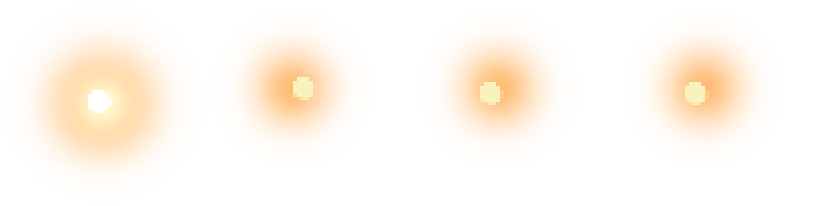
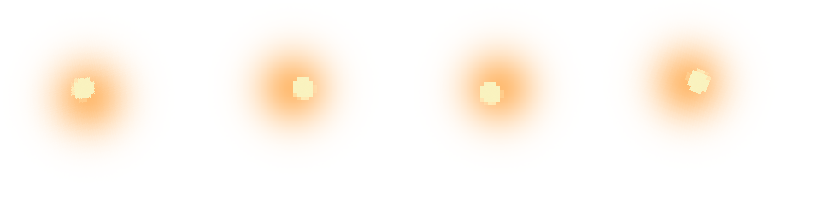
juja hoha

Changed region(s): [[0.0608, 0.233, 0.2129, 0.8155], [0.7603, 0.233, 0.9124, 0.6117]]

diff --git a/Hollenhaus/Hollenhaus proyect VS/src/game/GameStateMachine.h b/Hollenhaus/Hollenhaus proyect VS/src/game/GameStateMachine.h
@@ -43,6 +43,7 @@ namespace GameStates
 		OPTIONSMENU,
 		TRANSITIONTEXT,
 		CINEMATICINTRO,
+		CINEMATICOUTRO,
 		PAUSEMENU,
 		MAZEMENU,
 		CLUESMENU,
@@ -106,11 +107,12 @@ class GameStateMachine : public Singleton<GameStateMachine>
 	GameState* multiplayerModeState;
 	GameState* optionsMainMenuState;
 	GameState* cinematicIntroState;
+	GameState* cinematicOutroState;
 	GameState* transitionTextMenuState;
 	GameState* pauseMenuState;
 	GameState* checkMazeMenuState;
 	GameState* checkCluesMenuState;
-	 
+
 	// Estados auxiliares
 	GameState* movementState;
 
@@ -139,7 +141,7 @@ public:
 		return mngr_;
 	}
 
-	CaseManager* caseMngr() 
+	CaseManager* caseMngr()
 	{
 		return case_;
 	}
@@ -229,6 +231,9 @@ public:
 		case GameStates::CINEMATICINTRO:
 			newState = cinematicIntroState;
 			break;
+		case GameStates::CINEMATICOUTRO:
+			newState = cinematicOutroState;
+			break;
 		case GameStates::PAUSEMENU:
 			newState = pauseMenuState;
 			break;
@@ -241,7 +246,7 @@ public:
 		case GameStates::ENDGAME:
 			newState = endGameState;
 			break;
-		case GameStates::TUTORIAL_DECKBUILDING: 
+		case GameStates::TUTORIAL_DECKBUILDING:
 			newState = tutorialDeckbuildingState;
 			break;
 		case GameStates::TUTORIAL_SHOP:
@@ -272,7 +277,7 @@ public:
 
 	GameState* getCurrentState() { return currentState; }
 
-	int getCurrentStateEnum() { return gameStateEnumValue;  }
+	int getCurrentStateEnum() { return gameStateEnumValue; }
 
 
 	// TUTORIAL

diff --git a/Hollenhaus/Hollenhaus proyect VS/src/game/gamestates/cinematicOutroState.cpp b/Hollenhaus/Hollenhaus proyect VS/src/game/gamestates/cinematicOutroState.cpp
@@ -3,33 +3,33 @@
 #include "../components/basics/SpriteRenderer.h"
 #include "../components/ImageWithFrames.h"
 #include "../components/basics/Transform.h"
-#include "cinematicIntroState.h"
+#include "CinematicOutroState.h"
 
-CinematicIntroState::CinematicIntroState()
+CinematicOutroState::CinematicOutroState()
 {
 }
 
-CinematicIntroState::~CinematicIntroState()
+CinematicOutroState::~CinematicOutroState()
 {
 }
 
-void CinematicIntroState::refresh()
+void CinematicOutroState::refresh()
 {
 }
 
-void CinematicIntroState::update()
+void CinematicOutroState::update()
 {
 	GameState::update();
 }
 
-void CinematicIntroState::render() const
+void CinematicOutroState::render() const
 {
 	GameState::render();
 }
 
-void CinematicIntroState::onEnter()
+void CinematicOutroState::onEnter()
 {
-	TuVieja("\nEnter CinematicIntroState");
+	TuVieja("\nEnter CinematicOutroState");
 	auto eCin = Instantiate(Vector2D());
 
 	auto eCinTr = eCin->addComponent<Transform>();
@@ -40,13 +40,13 @@ void CinematicIntroState::onEnter()
 
 	eCinIwf->addCallback([this]
 		{
-			GameStateMachine::instance()->setState(GameStates::TUTORIAL_OFFICE, true, true);
+			GameStateMachine::instance()->setState(GameStates::MAINMENU, true, true);
 		});
 }
 
-void CinematicIntroState::onExit()
+void CinematicOutroState::onExit()
 {
-	TuVieja("\nExit CinematicIntroState");
+	TuVieja("\nExit CinematicOutroState");
 
 	GameStateMachine::instance()->getMngr()->Free();
 }

diff --git a/Hollenhaus/Hollenhaus proyect VS/src/game/GameStateMachine.cpp b/Hollenhaus/Hollenhaus proyect VS/src/game/GameStateMachine.cpp
@@ -12,6 +12,7 @@
 #include "gamestates/DeckBuildingState.h"
 #include "gamestates/tutorialState.h"
 #include "gamestates/cinematicIntroState.h"
+#include "gamestates/cinematicOutroState.h"
 
 #include "gamestates/SamuState.h"
 #include "gamestates/JimboState.h"
@@ -80,6 +81,7 @@ GameStateMachine::GameStateMachine()
 	optionsMainMenuState = new OptionsMainMenuState();
 	transitionTextMenuState = new TransitionTextMenuState();
 	cinematicIntroState = new CinematicIntroState();
+	cinematicOutroState = new CinematicOutroState();
 	pauseMenuState = new PauseMenuState();
 	checkMazeMenuState = new CheckMazeMenuState();
 	checkCluesMenuState = new CheckCluesMenuState();
@@ -138,6 +140,7 @@ GameStateMachine::~GameStateMachine()
 	delete optionsMainMenuState;
 	delete transitionTextMenuState;
 	delete cinematicIntroState;
+	delete cinematicOutroState;
 	delete pauseMenuState;
 	delete checkMazeMenuState;
 	delete checkCluesMenuState;

diff --git a/Hollenhaus/Hollenhaus proyect VS/src/game/gamestates/TutorialBoardState.cpp b/Hollenhaus/Hollenhaus proyect VS/src/game/gamestates/TutorialBoardState.cpp
@@ -255,7 +255,7 @@ std::array<ecs::entity_t, 4> TutorialBoardState::createPointsJ1()
 	{
 		punto->getComponent<Transform>()->setGlobalScale(0.75f, 0.75f);
 		punto->addComponent<SpriteRenderer>("llamitas");
-		punto->addComponent<ImageWithFrames>(1, 4, 200);
+		punto->addComponent<ImageWithFrames>(1, 4, -1, 500);
 		//->setCurrentCol(sdlutils().rand().nextInt(0,4);
 	}
 
@@ -286,7 +286,7 @@ std::array<ecs::entity_t, 4> TutorialBoardState::createPointsJ2()
 	{
 		punto->getComponent<Transform>()->setGlobalScale(0.75f, 0.75f);
 		punto->addComponent<SpriteRenderer>("llamitas");
-		punto->addComponent<ImageWithFrames>(1, 4, 200);
+		punto->addComponent<ImageWithFrames>(1, 4, -1, 500);
 		//->setCurrentCol(sdlutils().rand().nextInt(0,4);
 	}
 

diff --git a/Hollenhaus/Hollenhaus proyect VS/src/game/gamestates/LuisState.cpp b/Hollenhaus/Hollenhaus proyect VS/src/game/gamestates/LuisState.cpp
@@ -262,7 +262,7 @@ std::array<ecs::entity_t, 4> LuisState::createPointsJ1()
 	{
 		punto->getComponent<Transform>()->setGlobalScale(0.75f, 0.75f);
 		punto->addComponent<SpriteRenderer>("llamitas");
-		punto->addComponent<ImageWithFrames>(1, 4, 200);
+		punto->addComponent<ImageWithFrames>(1, 4, -1, 500);
 		//->setCurrentCol(sdlutils().rand().nextInt(0,4);
 	}
 
@@ -293,7 +293,7 @@ std::array<ecs::entity_t, 4> LuisState::createPointsJ2()
 	{
 		punto->getComponent<Transform>()->setGlobalScale(0.75f, 0.75f);
 		punto->addComponent<SpriteRenderer>("llamitas");
-		punto->addComponent<ImageWithFrames>(1, 4, 200);
+		punto->addComponent<ImageWithFrames>(1, 4, -1, 500);
 		//->setCurrentCol(sdlutils().rand().nextInt(0,4);
 	}
 

diff --git a/Hollenhaus/Hollenhaus proyect VS/src/game/gamestates/cinematicOutroState.h b/Hollenhaus/Hollenhaus proyect VS/src/game/gamestates/cinematicOutroState.h
@@ -1,0 +1,20 @@
+#pragma once
+
+//Checkml
+#include <game/checkML.h>
+
+#include "GameState.h"
+
+class CinematicOutroState : public GameState
+{
+public:
+    CinematicOutroState();
+    virtual ~CinematicOutroState();
+
+    void refresh() override;
+    void update() override;
+    void render() const override;
+
+    void onEnter() override;
+    void onExit() override;
+};
